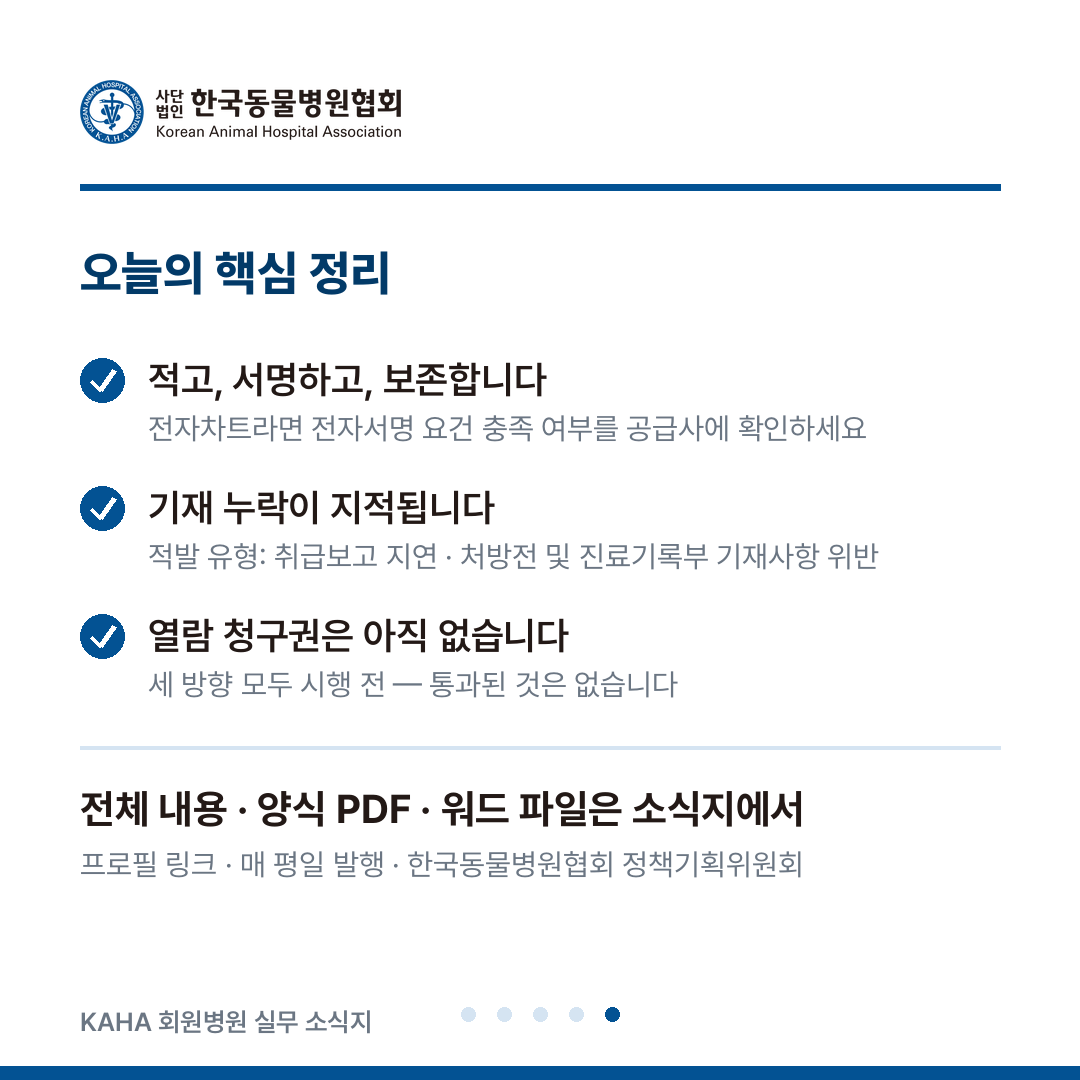
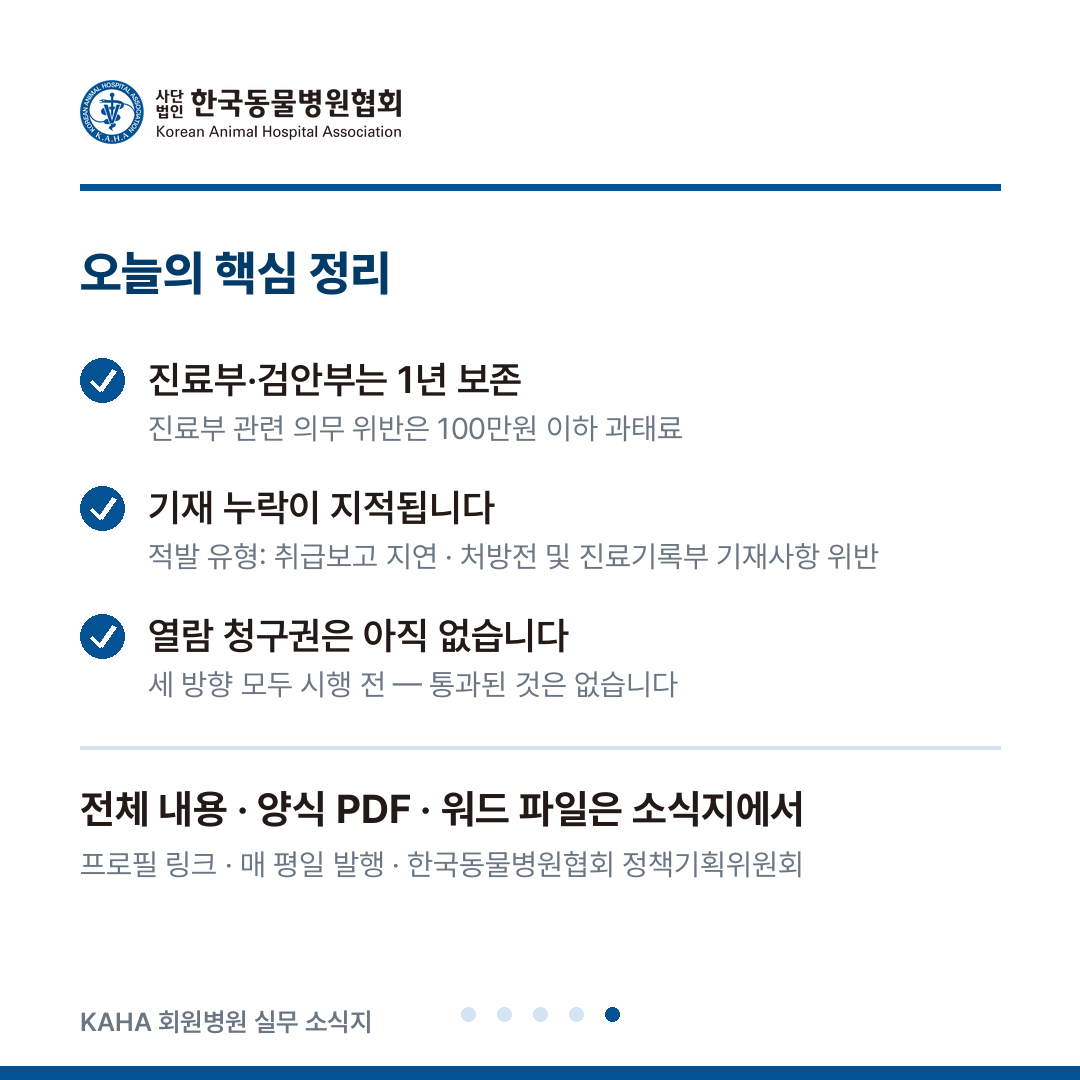
진료부 보존기간 1년 확정 — 시행규칙 제13조 원문 반영
원장님이 수의사법 시행규칙 제13조·제13조의2 원문을 제공해 확정.
재검증 중 검색엔진이 반복 반환한 "3년"은 오류였고 최초 기록(1년)이
옳았음. 조문 수치는 원문 대조 전까지 기존 기록을 뒤집지 않기로 함.

원문으로 확정·반영한 내용:
- 진료부·검안부 보존기간 1년 (제13조)
- 진료부 기재사항 7개 항목 → 8/21에 표로 수록
- 검안부 기재사항 7개 항목 → 8/21에 신규 절로 추가 (종전 미확보)
- 동물등록번호 근거는 「동물보호법」 제15조 (제12조 추정을 정정)
- 수술등중대진료 동의서는 별지 제11호서식, 설명은 구두·동의는
  서명 또는 기명날인, 동의를 받은 날부터 1년 보존 → 8/19에 반영
- 8/26 보존기간 문구 복원

카드 2세트(8/19·8/21) 재생성, 캡션 동기화.
factcheck 4건(8/12·8/19·8/21·8/26) 판정을 원문 대조 확인으로 갱신.

확인요청.md: 1-1 해결 처리하고, 확인 과정에서 드러난 신규 항목 추가
(1-4 과태료 조문 근거, 1-5 전자 진료부 근거 조문 — 제공된 제13조
원문에 해당 문언이 없어 별도 조문 소재 확인 필요).

Changed region(s): [[0.1222, 0.3361, 0.7944, 0.4278]]

diff --git a/factcheck/2026-08-21.md b/factcheck/2026-08-21.md
@@ -7,10 +7,11 @@
 | # | 본문 주장 | 판정 | 근거 |
 |---|---|---|---|
 | 1 | 수의사법 제13조 — 진료부·검안부를 갖추고 기록·서명, 기재사항·보존기간·보존방법은 농림축산식품부령에 위임 | ⚠ 부분확인 (조문 원문 미대조, 검색 요약 다중 일치) | [위키문헌 수의사법](https://ko.wikisource.org/wiki/대한민국_수의사법), [U-LEX](https://www.ulex.co.kr/법률/259495-001501-수의사법) |
-| 2 | 진료부·검안부 보존기간 | ❌ **확정 불가 — 본문에서 수치를 뺐음** · 검색 요약은 일관되게 "3년"을 반환했으나 모두 동일 검색엔진의 프로세스 요약이고(한 응답은 "3연간"으로 깨져 나옴) **조문 원문을 한 번도 열람하지 못함**. 반대로 저장소 기존 기록과 현장 인식은 "1년". 상충이 해소되지 않아 어느 쪽도 싣지 않음 | 원문 확인 필요: 국가법령정보센터 「수의사법 시행규칙」 진료부·검안부 조문 |
+| 2 | **진료부·검안부 보존기간 1년** | ✅ 확인 — **시행규칙 제13조 원문 대조 완료** (원장 제공, 개정 2013.11.22.·2017.1.2.·2022.7.5.·2023.4.27.) · 조문 문언 "각각 다음 사항을 적어야 하며, 1년간 보존하여야 한다" | 수의사법 시행규칙 제13조 |
 | 3 | 진료부 관련 의무 위반 시 **100만원 이하 과태료** | ⚠ 부분확인 (조·항 번호 미확인) — 본문에 조문 번호 없이 금액만 서술 | 검색 확인 ("진료부 관련 의무 위반 시 100만원 이하 과태료") |
-| 4 | 진료부 기재사항 — 품종·성별·특징·연령 / 진료 연월일 / 소유자 성명·주소 / 병명 및 주요 증상 / 치료방법 / 사용한 마약·향정신성의약품 품명과 수량 / 동물등록번호 | ⚠ 부분확인 (시행규칙 원문 미대조) — **본문에서 인용부호 없이 "대체로 다음과 같습니다 / 항목만 정리합니다"로 처리**하고, 동물보호법 인용 조문 번호는 쓰지 않음 | [U-LEX 시행규칙](https://www.ulex.co.kr/법률/215335-007570-수의사법시행규칙) |
-| 5 | 전자서명이 기재된 전자문서로 진료부 작성·보관 가능 | ⚠ 부분확인 (조항 번호·부가 조건 미확인) — **본문에 "확인됩니다 / 세부 조건은 원문 확인이 필요한 부분이라 단정하지 않겠습니다"로 명시** | 검색 요약 |
+| 4 | 진료부 기재사항 7개 항목(가～사) 및 **동물등록번호의 근거는 「동물보호법」 제15조** | ✅ 확인 — **시행규칙 제13조 원문 대조 완료** (원장 제공, 개정 2013.11.22.·2017.1.2.·2022.7.5.·2023.4.27.) · 검색 단계에서 제12조로 추정했던 것이 **제15조로 확정**되어 본문에 명시 | 수의사법 시행규칙 제13조 제1호 |
+| 4-1 | **검안부 기재사항 7개 항목**(품종·성별·특징·연령 / 검안 연월일 / 소유자등 성명·주소 / 폐사 연월일 또는 살처분 연월일 / 폐사·살처분의 원인과 장소 / 사체의 상태 / 주요 소견) | ✅ 확인 — **시행규칙 제13조 원문 대조 완료** (원장 제공) · 검색 단계에서 전혀 확보하지 못했던 항목으로, 원문 확정 후 본문에 표로 신설 | 수의사법 시행규칙 제13조 제2호 |
+| 5 | 전자서명이 기재된 전자문서로 진료부 작성·보관 가능 | ⚠ 부분확인 (제공된 제13조 원문에는 해당 문언이 없음 — 별도 조문 소재) — 본문은 유보 표현 없이 실무 조언(공급사 확인)으로 서술 | 조문 소재 확인 필요 |
 | 6 | **현행 수의사법에 보호자의 진료기록 열람권·사본 교부 청구권 없음** | ✅ 확인 (독립 4개 이상 매체 일치) | [데일리벳](https://www.dailyvet.co.kr/news/policy/225538), [법률신문](https://www.lawtimes.co.kr/news/articleView.html?idxno=217224), [한국NGO신문](https://www.ngonews.kr/news/curationView.html?idxno=227946) |
 | 7 | 2025년 11월 수의사법 제13조 제1항 입법부작위 관련 **헌법소원 제기 보도**, 결정 없음 | ⚠ 부분확인 — 진행 단계에 대한 보도가 엇갈림(전원재판부 심리 중 vs 지정재판부 검토). **본문에 "제기했다고 보도되었습니다 / 결정은 나오지 않았습니다 / 진행 단계는 특정하지 않습니다"로 서술** | [법률신문](https://www.lawtimes.co.kr/news/articleView.html?idxno=217224), [다음뉴스](https://v.daum.net/v/20251125172349870) |
 | 8 | 열람·사본 발급 의무화 수의사법 개정안이 22대 국회에 발의되어 **계류 중** (유사 법안 복수 발의 정황) | ✅ 확인 — 대한수의사회장 발언("현재 국회 계류 중인")으로 계류 상태 직접 확인 | [데일리벳](https://www.dailyvet.co.kr/news/policy/218092), [데일리벳](https://www.dailyvet.co.kr/news/policy/285882) |
@@ -22,9 +23,6 @@
 
 ## 본문에서 제외한 항목 (검증 실패 — 싣지 않음)
 
-- **시행규칙 조문 번호와 항·호 체계** — 미확인. 본문에서 "시행규칙"으로만 지칭하고 조문 번호를 쓰지 않았습니다.
-- **동물등록번호 기재의 근거 조문(동물보호법 제12조 vs 제15조)** — 2022년 전부개정으로 조문이 이동해 불일치 가능성이 큼. **본문에 인용 조문을 쓰지 않았습니다.**
-- **검안부 기재사항 전체 목록** — 미확인. 본문은 진료부 기재사항만 다룹니다.
 - **진단서·검안서·처방전 등 문서별 보존기간 차이** — 확인 실패. 본문에서 다루지 않았습니다.
 - **헌법소원 사건번호 및 현재 진행 단계** — 상충 정보만 존재. 본문에서 단계를 특정하지 않았습니다.
 - **국회 계류 법안의 의안번호·발의일·발의자·심사 단계** — 의안정보시스템 접근 불가. 본문에 의원 이름·의안번호를 쓰지 않았습니다.
@@ -33,6 +31,7 @@
 
 ## 발행 전 정정 사항 (중대)
 
-- **진료부 보존기간 — 수치를 싣지 않기로 결정(중요)**: 1차 작성 시 검색 요약을 근거로 "3년"이라 단정하고 기존 기록까지 정정했으나, 재검토 결과 그 근거가 부실했습니다. ① 모든 근거가 동일 검색엔진의 산문 요약이고 조문 원문은 한 번도 열람하지 못했으며(WebFetch가 law.go.kr 포함 전 도메인 차단), ② 한 응답은 "3연간"으로 깨져 나올 만큼 신뢰도가 낮았고, ③ 저장소 기존 기록과 현장 인식은 "1년"입니다. 저장소 원칙("확실하지 않으면 싣지 않는다")에 따라 **본문에서 수치를 제거하고 원문 확인을 안내**하는 형태로 바꿨습니다. 확인되면 그때 확정 서술로 되돌립니다.
+- **진료부 보존기간 — 원문 대조로 1년 확정(중요)**: 1차 작성 시 검색 요약을 근거로 "3년"이라 단정했으나 **오류였습니다.** 원장 제공 시행규칙 제13조 원문으로 **1년**이 확정되어 본문·체크리스트·카드에 반영했고, 검안부 기재사항 7개 항목과 동물등록번호의 근거 조문(동물보호법 제15조)도 함께 확정해 본문에 추가했습니다. 아래는 당시 판단 경위 기록입니다.
+- (경위): 1차 작성 시 검색 요약을 근거로 "3년"이라 단정하고 기존 기록까지 정정했으나, 재검토 결과 그 근거가 부실했습니다. ① 모든 근거가 동일 검색엔진의 산문 요약이고 조문 원문은 한 번도 열람하지 못했으며(WebFetch가 law.go.kr 포함 전 도메인 차단), ② 한 응답은 "3연간"으로 깨져 나올 만큼 신뢰도가 낮았고, ③ 저장소 기존 기록과 현장 인식은 "1년"입니다. 저장소 원칙("확실하지 않으면 싣지 않는다")에 따라 **본문에서 수치를 제거하고 원문 확인을 안내**하는 형태로 바꿨습니다. 확인되면 그때 확정 서술로 되돌립니다.
   - 참고: 발행된 `issues/2026-08-12.md` 본문은 "**동의서**는 1년간 보존 의무"라고만 서술해 본문 자체에는 오류가 없습니다. 잘못된 것은 팩트체크 기록의 항목 표기였습니다.
 - **입법 항목 상태 표기 강제**: 헌법소원·국회 법안·정부 과제를 하나의 표로 묶고 각각의 상태를 명시해, 어느 것도 시행 중인 법으로 읽히지 않도록 구성했습니다.

diff --git a/factcheck/2026-08-19.md b/factcheck/2026-08-19.md
@@ -7,7 +7,7 @@
 | # | 본문 주장 | 판정 | 근거 |
 |---|---|---|---|
 | 1 | 수의사법 제13조의2 — 수술등중대진료 시 사전 설명 + **서면(전자문서 포함) 동의** | ✅ 확인 | [농식품부](https://www.mafra.go.kr/bbs/mafra/68/330605/artclView.do), [정책브리핑](https://www.korea.kr/news/policyNewsView.do?newsId=148903126) |
-| 2 | "수술등중대진료" 범위는 **① 전신마취 동반 내부장기·뼈·관절 수술 ② 전신마취 동반 수혈** 두 가지로 한정 | ✅ 확인 (농식품부·데일리벳·정책브리핑 3중 일치) | 위 + [데일리벳](https://www.dailyvet.co.kr/news/policy/168492) |
+| 2 | "수술등중대진료" 범위는 **① 전신마취를 동반하는 내부장기·뼈·관절에 대한 수술 ② 전신마취를 동반하는 수혈** 두 가지로 한정 | ✅ 확인 — **시행규칙 제13조의2 원문 대조 완료** (원장 제공, 개정 2013.11.22.·2017.1.2.·2022.7.5.·2023.4.27.) (종전 3중 교차확인에 더해 원문 확정) | 수의사법 시행규칙 제13조의2 제1항 |
 | 3 | 시행일 **2022.7.5** | ✅ 확인 | 위 동일 |
 | 4 | 법정 설명 4항목(진단명 / 필요성·방법·내용 / 전형적 후유증·부작용 / 소유자 준수사항) | ✅ 확인 | [농식품부](https://www.mafra.go.kr/bbs/mafra/68/330605/artclView.do) |
 | 5 | **단순 입원은 제13조의2 서면동의 대상으로 규정되어 있지 않음** | ⚠ 부분확인 — 시행규칙이 대상을 2가지로 한정 열거한 데서 도출. "입원은 제외"라고 명시한 유권해석은 미발견. **본문은 "이 조항의 서면동의 대상으로 규정되어 있지 않습니다"라는 소극적 표현을 사용하고 "법적 의무 없음"이라 단정하지 않음** | 위 동일 |
@@ -15,8 +15,8 @@
 | 7 | 게시 항목에 **입원비 포함**, 2025.1.1부터 11개 → **20개로 확대** | ✅ 확인 | [정책브리핑](https://www.korea.kr/news/policyNewsView.do?newsId=148933529), [데일리벳](https://www.dailyvet.co.kr/news/policy/232353) |
 | 8 | 게시한 금액을 초과해 진료비용을 받을 수 없음 | ⚠ 부분확인 (항 번호 불일치) — **본문에 항 번호를 쓰지 않고 제도 내용으로만 서술** | [데일리벳](https://www.dailyvet.co.kr/news/policy/178296) |
 | 9 | 제20조의3 — 수술등중대진료 **예상 진료비용 사전 고지**(구두 가능), 시행 2023.1.5, 추가 발생 시 변경 고지 가능 | ✅ 확인 | [농식품부](https://www.mafra.go.kr/bbs/mafra/68/330605/artclView.do) |
-| 10 | 수술등중대진료 동의서 **1년 보존** | ⚠ 부분확인 (서식 번호는 미확인) — **본문에 별지 서식 번호를 쓰지 않음** | [데일리벳](https://www.dailyvet.co.kr/news/policy/168492) |
-| 11 | 진료부 보존기간 | ❌ **확정 불가 — 본문에서 언급하지 않음** · 검색 요약은 "3년", 저장소 기존 기록은 "1년"으로 상충하며 조문 원문을 열람하지 못함. 본 호 본문은 수술등중대진료 동의서 1년 보존만 언급하고 진료부 기간은 다루지 않음 | 원문 확인 필요 |
+| 10 | 수술등중대진료 동의서 — **별지 제11호서식**, **동의를 받은 날부터 1년간 보존**, 설명은 구두·동의는 서명 또는 기명날인 | ✅ 확인 — **시행규칙 제13조의2 원문 대조 완료** (원장 제공, 개정 2013.11.22.·2017.1.2.·2022.7.5.·2023.4.27.) | 수의사법 시행규칙 제13조의2 제2항·제3항 |
+| 11 | 진료부 보존기간 **1년** | ✅ 확인 — **시행규칙 제13조 원문 대조 완료** (원장 제공, 개정 2013.11.22.·2017.1.2.·2022.7.5.·2023.4.27.) | 수의사법 시행규칙 제13조 |
 | 12 | 한국소비자원 동물병원 피해구제 **2020～2025.8 누적 739건**, 2021년 95건 → 2025년 8월까지 157건 | ✅ 확인 | [데일리벳](https://www.dailyvet.co.kr/news/practice/companion-animal/285321) |
 | 13 | 소비자 상담에서 **"과다청구" 109건(18.9%)로 최다**, 대표 항목이 입원비·검사비 | ✅ 확인 | [데일리벳](https://www.dailyvet.co.kr/news/practice/companion-animal/272342) |
 | 14 | 야간 상주 여부 고지를 요구하는 법령상 규정은 발견되지 않음 | ✅ 확인(미발견) — **본문에 "찾지 못했습니다 / 의무가 아니라는 뜻이지 안 알려도 된다는 뜻은 아닙니다"로 정직하게 서술** | 조사 범위 내 근거 미발견 |
@@ -24,7 +24,6 @@
 
 ## 본문 및 양식에서 제외한 항목 (검증 실패 — 싣지 않음)
 
-- **수술등중대진료 동의서의 별지 서식 번호** — "별지 제11호서식" 설이 1회 등장했으나 재검증 실패(다른 검색에서는 제11호서식이 가축진료 신고서로 나옴). 본문에 번호를 쓰지 않았습니다.
 - **제13조의2 위반 과태료 금액** — 시행령 부과기준(30/60/90만원)이 확인되나 법률상 상한 미확인. **입원 동의서는 이 조항 대상이 아니므로 본문에서 과태료를 언급하지 않았습니다.**
 - **제20조의2 "게시액 초과 수령 금지"의 항 번호** — 미확인, 제도명으로만 서술.
 - **동물병원 시설기준상 입원실 포함 여부** — 시행규칙 별표 원문 미대조로 본문에서 제외.
@@ -36,4 +35,4 @@
 - **법적 성격 재규정**: 초안은 입원 동의서를 법정 서식처럼 서술할 소지가 있었으나, 제13조의2의 대상이 아님을 확인해 **"법정 의무 문서가 아니라 비용·연락 방식을 미리 합의하는 계약 문서"**로 성격을 다시 규정하고, 본문과 양식 양쪽에 **"본 서식은 수의사법 제13조의2의 수술등중대진료 동의서가 아닙니다"** 주석을 넣음.
 - **분기 문구 추가**: 입원 중 중대진료 발생 시 별도 동의서를 작성한다는 조항을 양식 제8항으로 신설.
 - **야간 상주 고지 표현 완화**: "고지 의무"라는 표현을 쓰지 않고 "요구하는 규정은 찾지 못했다"로 서술.
-- **진료부 보존기간 미기재**: 상충이 해소되지 않아 본문에서 다루지 않았습니다. 본 호가 언급하는 1년 보존은 **수술등중대진료 동의서**에 한합니다.
+- **원문 대조 반영(2026-08-14)**: 시행규칙 제13조의2 원문으로 **별지 제11호서식**(검색 단계에서 재검증에 실패해 뺐던 항목)과 **동의를 받은 날부터 1년 보존**, **설명은 구두·동의는 서면**이라는 절차가 확정되어 본문에 추가했습니다. 진료부 보존기간도 1년으로 확정되었습니다.

diff --git a/factcheck/확인요청.md b/factcheck/확인요청.md
@@ -2,7 +2,7 @@
 
 작성: 2026-08-14 · 대상: 2026-08-17 ～ 08-28 발행분
 
-이 세션의 작업 환경에서는 law.go.kr·mfds.go.kr·wsava.org 등 **모든 사이트의 직접 열람이 차단**되어 있어(검색만 가능), 아래 항목은 원문 대조를 하지 못했습니다. 저장소 원칙에 따라 **해당 내용은 소식지 본문과 카드에서 모두 제거**한 상태입니다.
+작업 환경에서 law.go.kr·mfds.go.kr·wsava.org 등 **모든 사이트의 직접 열람이 차단**되어 있어(검색만 가능), 아래 항목은 원문 대조를 하지 못했습니다. 저장소 원칙에 따라 **확신할 수 없는 내용은 소식지 본문과 카드에서 제거**한 상태이며, 문서에는 유보 표현을 쓰지 않습니다.
 
 아래는 원장님이 확인해 주시면 바로 본문에 넣을 수 있는 항목입니다. **확인 결과만 알려주시면 제가 해당 호와 팩트체크 기록에 반영합니다.**
 
@@ -10,13 +10,12 @@
 
 ## 우선순위 1 — 확인되면 본문에 바로 반영할 항목
 
-### 1-1. 진료부·검안부 보존기간 ★가장 중요
+### ~~1-1. 진료부·검안부 보존기간~~ ✅ **해결 (2026-08-14, 원장 확인)**
 
-- **왜**: 8/21 호(진료기록부)의 핵심 항목인데, 자료마다 1년과 3년이 엇갈려 현재 **수치를 빼고 발행 예정**입니다.
-- **어디서**: 국가법령정보센터 [law.go.kr](https://www.law.go.kr) → 법령 검색 "수의사법 시행규칙" → **제13조(진료부 및 검안부의 기재사항)**
-- **무엇을**: 조문 끝부분에 "진료부 또는 검안부는 **○년간** 보존하여야 한다"는 항이 있습니다. 그 숫자만 알려주시면 됩니다.
-- **반영**: 확인되면 8/21 본문에 보존기간을 명시하고, 체크리스트에 "○년 보존 관리" 항목을 넣겠습니다. 아울러 8/12 호 팩트체크 기록(현재 보류 상태)도 확정하겠습니다.
-- **참고**: 수술등중대진료 동의서 1년 보존은 별개 항목으로 이미 확인되었습니다.
+- **결과: 1년.** 수의사법 시행규칙 제13조 — "각각 다음 사항을 적어야 하며, **1년간 보존하여야 한다**"
+- 함께 확정된 것: **진료부 기재사항 7개 항목**, **검안부 기재사항 7개 항목**(신규 확보), **동물등록번호는 「동물보호법」 제15조** 등록 동물만 해당, **수술등중대진료 동의서는 별지 제11호서식**이고 **동의를 받은 날부터 1년** 보존, 설명은 구두·동의는 서명 또는 기명날인
+- **반영 완료**: 8/21 본문에 보존기간·진료부 기재사항 표·검안부 기재사항 표 추가, 8/19에 별지 서식 번호와 동의 절차 추가, 8/26에 보존기간 복원, 카드 재생성, 8/12 팩트체크 기록 확정
+- **기록**: 재검증 중 검색엔진이 반복적으로 "3년"을 반환해 한때 정정했던 것은 **오류**였고, 최초 기록(1년)이 옳았습니다. 이후 조문 수치는 원문 대조 전까지 기존 기록을 뒤집지 않기로 했습니다.
 
 ### 1-2. 퇴직급여 체불 형벌 상향 시행일
 
@@ -31,6 +30,20 @@
 - **어디서**: 근로복지공단 [comwel.or.kr](https://www.comwel.or.kr) → 보험료 → **산재보험료율 조회** (사업자등록번호로 조회)
 - **무엇을**: 우리 병원에 실제 적용되는 2026년 업종요율(%)
 - **반영**: "약 0.6%" → 확정 수치로 바꾸고 사업주 부담률 합계(현재 약 10.6%)를 재계산합니다.
+
+### 1-4. 진료부 관련 의무 위반 과태료
+
+- **왜**: 8/21 본문과 카드에 **"100만원 이하 과태료"**로 실었는데, 근거가 검색 결과입니다. 1-1에서 검색이 틀렸던 전례가 있어 확인이 필요합니다.
+- **어디서**: law.go.kr → "수의사법" → **제41조(과태료)**
+- **무엇을**: 진료부 미기재·거짓기재가 몇 호에 해당하고 상한이 100만원이 맞는지
+- **반영**: 다르면 금액을 정정하고, 맞으면 조문 번호를 본문에 명시하겠습니다.
+
+### 1-5. 전자 진료부의 근거 조문
+
+- **왜**: 8/21에 "전자서명이 기재된 전자문서로 작성·보관할 수 있습니다"로 실었는데, 주신 시행규칙 제13조 원문에는 이 문언이 없어 다른 조문에 있는 것으로 보입니다.
+- **어디서**: law.go.kr → 수의사법 제13조 본문 또는 시행규칙 인접 조문
+- **무엇을**: 전자문서 작성·보관을 허용하는 조문의 위치와 조건
+- **반영**: 조문을 특정해 본문에 명시하거나, 근거가 없으면 해당 문장을 삭제하겠습니다.
 
 ---
 
@@ -79,7 +92,6 @@
 |---|---|---|
 | 검역본부 「개·고양이 항생제 처방 가이드라인」 **발간연도** | [ebook.qia.go.kr](https://ebook.qia.go.kr) 판권지 | 8/24 |
 | WSAVA 치과 가이드라인 **한국어판이 축약판인지 전문판인지** | wsava.org 번역본 PDF 첫 장 | 8/17 |
-| 진료부 기재사항 중 **동물등록번호 인용 조문**(동물보호법 제12조 vs 제15조) | law.go.kr 수의사법 시행규칙 제13조 | 8/21 |
 | **토요일 근무**의 법적 성격(무급휴무일 vs 휴일) 병원 취업규칙상 처리 | 병원 취업규칙 · 노무사 | 8/25 (현재 미수록) |
 | 봉합사 제거 시점·응급 재내원 기준 **병원 표준 프로토콜** | 병원 내부 기준 | 8/26 양식 기본값 |
 
@@ -101,4 +113,7 @@
 
 ---
 
-**진행 방법**: 위 항목 중 확인되는 것만 알려주시면 됩니다. 전부 아니어도 되고, 1-1(진료부 보존기간) 하나만 해결돼도 8/21 호가 완성됩니다.
+**진행 방법**: 위 항목 중 확인되는 것만 알려주시면 됩니다. 1-1처럼 조문을 그대로 붙여넣어 주시면 가장 정확합니다.
+
+**갱신 이력**
+- 2026-08-14: 1-1(진료부 보존기간) 해결 — 시행규칙 제13조 원문 확인, **1년** 확정. 진료부·검안부 기재사항, 동물보호법 제15조, 별지 제11호서식, 동의서 기산점까지 함께 확정되어 8/19·8/21·8/26에 반영. 확인 과정에서 드러난 새 항목 1-4·1-5 추가.

diff --git a/issues/2026-08-21.md b/issues/2026-08-21.md
@@ -7,19 +7,37 @@
 
 수의사법 제13조는 수의사가 **진료부 또는 검안부를 갖추어 진료·검안한 사항을 기록하고 서명**하도록 하고, 기재사항·보존기간·보존방법은 농림축산식품부령(시행규칙)에 위임하고 있습니다. 진료부 관련 의무를 위반하면 **100만원 이하의 과태료** 대상이 됩니다.
 
-혼동하기 쉬운 점 하나를 짚어두면, **수술등중대진료 동의서의 보존과 진료부 보존은 별개의 항목**입니다. 두 가지를 하나로 묶어 관리하다 보면 어느 쪽도 기준에 맞지 않게 됩니다.
+**보존기간은 1년입니다.** 시행규칙 제13조는 진료부와 검안부에 적어야 할 사항을 열거하면서 "**1년간 보존하여야 한다**"고 규정합니다.
 
-시행규칙이 정한 진료부 기재사항은 대체로 다음과 같습니다. 조문 문언을 그대로 옮기는 대신 항목만 정리합니다.
+수술등중대진료 동의서도 1년이지만 기산점이 다릅니다. 동의서는 **동의를 받은 날부터** 1년입니다(시행규칙 제13조의2 제3항). 진료부는 진료 기록 기준, 동의서는 동의일 기준으로 각각 관리하셔야 합니다.
 
-- 동물의 품종·성별·특징 및 연령
-- 진료 연월일
-- 동물소유자 또는 관리자의 성명·주소
-- 병명 및 주요 증상
-- 치료방법(처방과 처치)
-- 사용한 마약 또는 향정신성의약품의 품명과 수량
-- 동물등록번호(동물보호법에 따라 등록한 동물)
+시행규칙 제13조가 정한 **진료부 기재사항**은 다음 일곱 가지입니다.
 
-마지막 두 항목이 실무에서 자주 빠집니다. **마약류 품명·수량 기재는 진료부 의무이자 마약류 관리와도 직결됩니다.** 지난주 소식지에서 다룬 식약처 합동점검(2026년 8월 5일 발표)에서 적발된 28곳의 위반 유형에도 **"처방전 또는 진료기록부 기재사항 위반"**이 포함되어 있었습니다. 남의 일이 아닙니다.
+| | 기재사항 |
+|---|---|
+| 가 | 동물의 품종·성별·특징 및 연령 |
+| 나 | 진료 연월일 |
+| 다 | 동물소유자등의 성명과 주소 |
+| 라 | 병명과 주요 증상 |
+| 마 | 치료방법(처방과 처치) |
+| 바 | **사용한 마약 또는 향정신성의약품의 품명과 수량** |
+| 사 | **동물등록번호**(「동물보호법」 제15조에 따라 등록한 동물만 해당) |
+
+**바·사 두 항목이 실무에서 자주 빠집니다.** 특히 마약류 품명·수량 기재는 진료부 의무이면서 마약류 관리와도 직결됩니다. 지난주 소식지에서 다룬 식약처 합동점검(2026년 8월 5일 발표)에서 적발된 28곳의 위반 유형에도 **"처방전 또는 진료기록부 기재사항 위반"**이 포함되어 있었습니다. 남의 일이 아닙니다.
+
+## 검안부도 기재사항이 따로 있습니다
+
+검안부는 진료부와 항목이 다릅니다. 폐사 원인 확인이나 보험·분쟁 대응에서 근거가 되는 문서이므로 양식을 따로 갖춰두시는 편이 좋습니다.
+
+| | 기재사항 |
+|---|---|
+| 가 | 동물의 품종·성별·특징 및 연령 |
+| 나 | 검안 연월일 |
+| 다 | 동물소유자등의 성명과 주소 |
+| 라 | 폐사 연월일(명확하지 않을 때에는 추정 연월일) 또는 살처분 연월일 |
+| 마 | 폐사 또는 살처분의 원인과 장소 |
+| 바 | 사체의 상태 |
+| 사 | 주요 소견 |
 
 ## 전자 진료부
 
@@ -47,7 +65,8 @@
 
 ## 실무 체크리스트
 
-- [ ] 진료부와 수술등중대진료 동의서를 각각의 보존기준에 맞춰 따로 관리하고 있는가
+- [ ] 진료부·검안부를 **1년간** 보존하고 있는가 (동의서는 동의를 받은 날부터 1년 — 기산점이 다릅니다)
+- [ ] 검안을 하는 병원이라면 검안부 양식을 진료부와 별도로 갖추고 있는가
 - [ ] 마약류를 사용한 진료에서 품명·수량을 진료부에 기재하고 있는가
 - [ ] 동물등록번호 기재란이 차트에 있고 실제로 채워지고 있는가
 - [ ] 전자차트의 서명 기능이 전자서명 요건을 충족하는지 공급사에 확인했는가
@@ -60,7 +79,7 @@
 
 ## 출처
 
-- 국가법령정보센터(law.go.kr): 수의사법 제13조 및 시행규칙(진료부·검안부 기재사항, 보존기간)
+- 국가법령정보센터(law.go.kr): 수의사법 제13조, 시행규칙 제13조(진료부 및 검안부의 기재사항)·제13조의2(수술등중대진료의 범위 등)
 - 농림축산식품부 제6차 농식품 규제혁신 전략회의 보도자료(2024.10.14) — mafra.go.kr
 - 수의사법 헌법소원 및 개정안 관련 보도(법률신문 등)
 
@@ -79,7 +98,7 @@
 ```
 [KAHA 회원병원 실무 소식지] 진료부 작성·보존 의무와 진료기록 공개 논의 (8/21 금 · 법규·정책)
 
-· 진료부는 적고 서명하고 보존 — 관련 의무 위반은 100만원 이하 과태료
+· 진료부·검안부는 1년 보존 — 동의서는 '동의를 받은 날부터' 1년으로 기산점이 다릅니다
 · 마약류 품명·수량, 동물등록번호 기재 누락이 실제 점검에서 지적됩니다
 · 보호자 열람·사본 교부 청구권은 현행법에 없음 — 헌법소원·개정안은 진행 중
 

diff --git a/factcheck/2026-08-12.md b/factcheck/2026-08-12.md
@@ -35,16 +35,17 @@
 |---|---|---|---|
 | 10 | 제13조의2 설명·서면동의 의무, 시행일 2022-07-05 | ✅ 확인 (변동 없음) | [법령정보센터](https://www.law.go.kr/LSW/lsLawLinkInfo.do?lsJoLnkSeq=1000916301&chrClsCd=010202), [정책브리핑](https://www.korea.kr/news/policyNewsView.do?newsId=148903126) |
 | 11 | 위반 시 과태료(30만～90만원) | ✅ 확인 (본문은 금액 미기재, "과태료 대상" 서술만 사용해 안전) | [데일리벳](https://www.dailyvet.co.kr/news/policy/168492) |
-| 12 | 진료부(동의서 포함 보관) 법정 보존기간 1년 | ⚠ **보류 — 재확인 필요 (2026-08-14)** · 최초 근거가 상업 블로그 단독 출처라 저장소 원칙상 불충분함. 이후 재검색에서는 "3년"이 반복 반환되었으나 그 역시 동일 검색엔진의 산문 요약일 뿐 조문 원문을 열람하지 못했음(WebFetch 전 도메인 차단). **1년·3년 어느 쪽도 확정하지 못한 상태이므로 판정을 보류함** | 확인 필요: 국가법령정보센터 「수의사법 시행규칙」 진료부·검안부 조문 · 최초 기록 출처(불충분): [플러스벳 블로그](https://vetching.cc/blog/vet-medical-record-retention-compliance) |
+| 12 | 진료부(동의서 포함 보관) 법정 보존기간 1년 | ✅ **확인 — 최초 기록이 옳았음 (2026-08-14 원문 대조)** · 최초 근거가 상업 블로그 단독 출처라 저장소 원칙상 불충분함. 이후 재검색에서는 "3년"이 반복 반환되었으나 그 역시 동일 검색엔진의 산문 요약일 뿐 조문 원문을 열람하지 못했음(WebFetch 전 도메인 차단). **1년·3년 어느 쪽도 확정하지 못한 상태이므로 판정을 보류함** | 확인 필요: 국가법령정보센터 「수의사법 시행규칙」 진료부·검안부 조문 · 최초 기록 출처(불충분): [플러스벳 블로그](https://vetching.cc/blog/vet-medical-record-retention-compliance) |
 | 13 | 예상 진료비용 고지 의무, 2023-01-05 시행(중대진료 한정, 구두 고지 가능) | ✅ 확인 (변동 없음) | [KVMA 안내](https://kvma.or.kr/kvma_info?num=1120&tbl=0) |
 | 14 | CEPSAF(Brodbelt 등 2008) 사망 위험 수치 | ✅ 확인 (변동 없음) | 상동 |
 
 ## 발행 전 정정 사항 (재검증)
 - 정정 없음.
 
-## 사후 검토 (2026-08-14)
+## 사후 검토 (2026-08-14) — 최초 기록이 옳았음으로 확정
 
-- **항목 12 판정 보류**: 진료부 법정 보존기간을 처음에는 1년으로 기록했고, 이후 재검증에서 3년이라는 결과가 반복 나와 한때 3년으로 정정했으나, **그 근거 역시 조문 원문이 아니라 검색엔진 요약이었습니다**(한 응답은 "3연간"으로 깨져 나올 만큼 신뢰도가 낮았습니다). 이 환경에서는 law.go.kr을 포함한 모든 도메인의 직접 열람이 차단되어 확정이 불가능합니다.
-- 따라서 **어느 쪽도 사실로 확정하지 않고 판정을 보류**합니다. 저장소 원칙("확실하지 않으면 싣지 않는다")에 따라, 이후 호(8/19·8/21·8/26)의 본문에서도 진료부 보존기간 수치를 빼고 원문 확인을 안내하는 형태로 처리했습니다.
-- **발행된 본문에는 영향 없음**: `issues/2026-08-12.md`는 "**동의서**는 1년간 보존 의무가 있습니다"라고만 서술합니다. 수술등중대진료 동의서 1년 보존(항목 6)은 별도 근거로 확인된 사항이며 유지합니다.
-- **다음 할 일**: 국가법령정보센터에서 「수의사법 시행규칙」의 진료부·검안부 조문을 직접 확인해 기간을 확정하고, 확정되면 항목 12와 8/21 호 본문을 그 값으로 되돌립니다.
+- **결론: 진료부·검안부 보존기간은 1년이 맞습니다.** 최초 기록(항목 12)이 정확했습니다.
+- **경위**: 재검증 과정에서 검색 결과가 반복적으로 "3년"을 반환해 한때 3년으로 정정했으나, 이는 **검색엔진 요약의 오류**였습니다(한 응답은 "3연간"으로 깨져 나올 만큼 신뢰도가 낮았습니다). 이 환경에서는 law.go.kr 직접 열람이 차단되어 원문 대조가 불가능했던 것이 원인입니다.
+- **확정 근거**: 수의사법 시행규칙 제13조 원문 — "법 제13조제1항에 따른 진료부 또는 검안부에는 각각 다음 사항을 적어야 하며, **1년간 보존하여야 한다**" (개정 2013.11.22.·2017.1.2.·2022.7.5.·2023.4.27.)
+- **교훈(운영 반영)**: 검색엔진의 산문 요약은 조문 수치의 근거로 쓰지 않습니다. 복수 검색에서 같은 값이 나오더라도 동일 엔진의 응답은 독립 출처가 아니며, 실제로 이번에 상관된 오류가 발생했습니다. **조문 수치는 원문 대조 전까지 기존 기록을 뒤집지 않습니다.**
+- 동의서 1년 보존(항목 6)도 원문으로 확정되었습니다. 다만 기산점이 "**동의를 받은 날부터**"임이 확인되어(시행규칙 제13조의2 제3항), 이후 호에 반영했습니다.

diff --git a/issues/2026-08-19.md b/issues/2026-08-19.md
@@ -7,7 +7,9 @@
 
 ## 먼저 짚을 것 — 입원은 '법정 서면동의' 대상이 아닙니다
 
-수의사법 제13조의2의 서면동의 의무는 **수술등중대진료**에 적용됩니다. 그 범위는 시행규칙에 ① 전신마취를 동반하는 내부장기·뼈·관절 수술 ② 전신마취를 동반하는 수혈, 이 두 가지로 한정되어 있습니다(2022년 7월 5일 시행). 즉 **입원 그 자체는 이 조항의 서면동의 대상으로 규정되어 있지 않습니다.**
+수의사법 제13조의2의 서면동의 의무는 **수술등중대진료**에 적용됩니다. 그 범위는 시행규칙 제13조의2 제1항에 ① 전신마취를 동반하는 내부장기·뼈·관절에 대한 수술 ② 전신마취를 동반하는 수혈, 이 두 가지로 한정되어 있습니다(2022년 7월 5일 시행).
+
+절차도 조문에 정해져 있습니다. **설명은 구두로 하고, 동의는 별지 제11호서식의 동의서에 동물소유자등의 서명이나 기명날인**을 받는 방식입니다. 받은 동의서는 **동의를 받은 날부터 1년간** 보존해야 합니다. 즉 **입원 그 자체는 이 조항의 서면동의 대상으로 규정되어 있지 않습니다.**
 
 그럼에도 입원 동의서를 권하는 이유는 분쟁 때문입니다. 한국소비자원에 접수된 동물병원 관련 피해구제는 2020년부터 2025년 8월까지 누적 739건이고, 2021년 연 95건에서 2025년은 8월까지만 157건으로 늘었습니다. 소비자 상담 분류에서 **"과다청구"가 109건(18.9%)으로 단일 항목 최다**였고, 그 대표 항목이 입원비와 검사비입니다. 입원 동의서는 법정 의무 문서가 아니라 **비용과 연락 방식을 미리 합의해 두는 계약 문서**로 보는 것이 정확합니다.
 
@@ -94,7 +96,7 @@
 
 - **사본 1부를 보호자에게 주세요.** 비용 기준선과 야간 관리 방식을 보호자가 손에 들고 가는 것 자체가 분쟁 예방입니다.
 - 입원 중 예상액을 넘겨 연락한 기록(통화 일시·내용)은 진료부에 남기세요. 나중에 "연락 못 받았다"는 다툼에서 이 기록이 유일한 근거가 됩니다.
-- 입원 동의서에는 법정 보존기간 규정이 없습니다. 다만 수술등중대진료 동의서는 1년 보존 의무가 있으므로, 같은 철에 함께 보관하고 최소 1년은 남겨두는 편을 권합니다.
+- 입원 동의서에는 법정 보존기간 규정이 없습니다. 다만 진료부는 1년, 수술등중대진료 동의서는 동의를 받은 날부터 1년 보존해야 하므로, 같은 철에 함께 보관하고 최소 1년은 남겨두는 편을 권합니다.
 - 야간 관리 체계 문구는 병원 광고·홈페이지 문구와 어긋나지 않게 맞추세요. 서로 다르면 그 자체가 분쟁 소재가 됩니다.
 
 ## 함께 정비하면 좋은 서식
@@ -103,7 +105,7 @@
 
 ## 출처
 
-- 국가법령정보센터(law.go.kr): 수의사법 제13조, 제13조의2, 제20조의2, 제20조의3 및 시행규칙
+- 국가법령정보센터(law.go.kr): 수의사법 제13조·제13조의2·제20조의2·제20조의3, 시행규칙 제13조·제13조의2 및 별지 제11호서식
 - 농림축산식품부 수의사법 개정 안내 — mafra.go.kr
 - 한국소비자원 동물병원 관련 피해구제 접수 현황(2020～2025.8)
 

diff --git a/factcheck/2026-08-26.md b/factcheck/2026-08-26.md
@@ -21,7 +21,7 @@
 | 13 | 짧은 항생제 요법을 받은 개에서 보호자 절반 이상이 1일 투여 횟수를 부정확하게 투여, 대부분 과소투여 | ⚠ 부분확인 — **원논문 특정 실패. 본문에 "(원논문 특정은 확인하지 못했습니다)"를 괄호로 명시** | [Clinician's Brief](https://www.cliniciansbrief.com/article/improving-owner-compliance-pet-medication-regimens) |
 | 14 | 순응도 개선 권고 — 스케줄 단순화 + 서면 차트·체크리스트 | ⚠ 부분확인 | 위 동일 |
 | 15 | 서면 안내는 구두 설명이 병행될 때 효과가 크다는 실무 권고 | ⚠ 부분확인 (실무 매체 기사, 연구 근거 아님) — 본문에 "실무 문헌은 ～라고 권합니다"로 출처 성격 표시 | [Today's Veterinary Nurse](https://todaysveterinarynurse.com/practice-management/can-we-talk-ensuring-owner-compliance/), [dvm360](https://www.dvm360.com/view/4-tips-effective-discharge) |
-| 16 | 진료부 보존기간 | ❌ **확정 불가 — 본문에서 수치를 뺐음** (2026-08-21 호 항목 2와 동일 사유: 조문 원문 미열람, 자료 간 1년/3년 상충) | 원문 확인 필요 |
+| 16 | 진료부 보존기간 **1년** | ✅ 확인 — **시행규칙 제13조 원문 대조 완료** (원장 제공, 개정 2013.11.22.·2017.1.2.·2022.7.5.·2023.4.27.) | 수의사법 시행규칙 제13조 |
 
 ## 양식·본문에서 제외한 항목 (검증 실패 — 인쇄값으로 넣지 않음)
 

diff --git a/issues/2026-08-26.md b/issues/2026-08-26.md
@@ -52,7 +52,7 @@
 ## 운영 팁
 
 - **안내문만 쥐여 보내지 마세요.** 순응도 관련 실무 문헌은 보호자와 마주 앉아 안내문을 함께 읽고 질문을 받은 뒤 동물을 인계하라고 권합니다. 서면은 구두 설명을 대체하는 것이 아니라 뒷받침하는 것입니다.
-- **사본 1부는 진료기록과 함께 보관하세요.** 나중에 설명 여부가 문제될 때 꺼내 볼 수 있는 유일한 자료입니다.
+- **사본 1부는 진료기록과 함께 보관하세요.** 진료부 보존기간이 1년이므로 같은 철에 넣어두시면 됩니다. 나중에 설명 여부가 문제될 때 꺼내 볼 수 있는 유일한 자료입니다.
 - 투약 체크 달력은 보호자가 냉장고에 붙여두는 용도입니다. 그 자체로 순응도 개선 효과를 기대할 수 있습니다.
 - NSAID를 처방했다면 위장관 증상이나 식욕 저하 시 중단하고 연락하라는 안내를 넣는 것이 일반적입니다. 다만 이는 병원 판단으로 채우는 항목으로 두었습니다.
 
